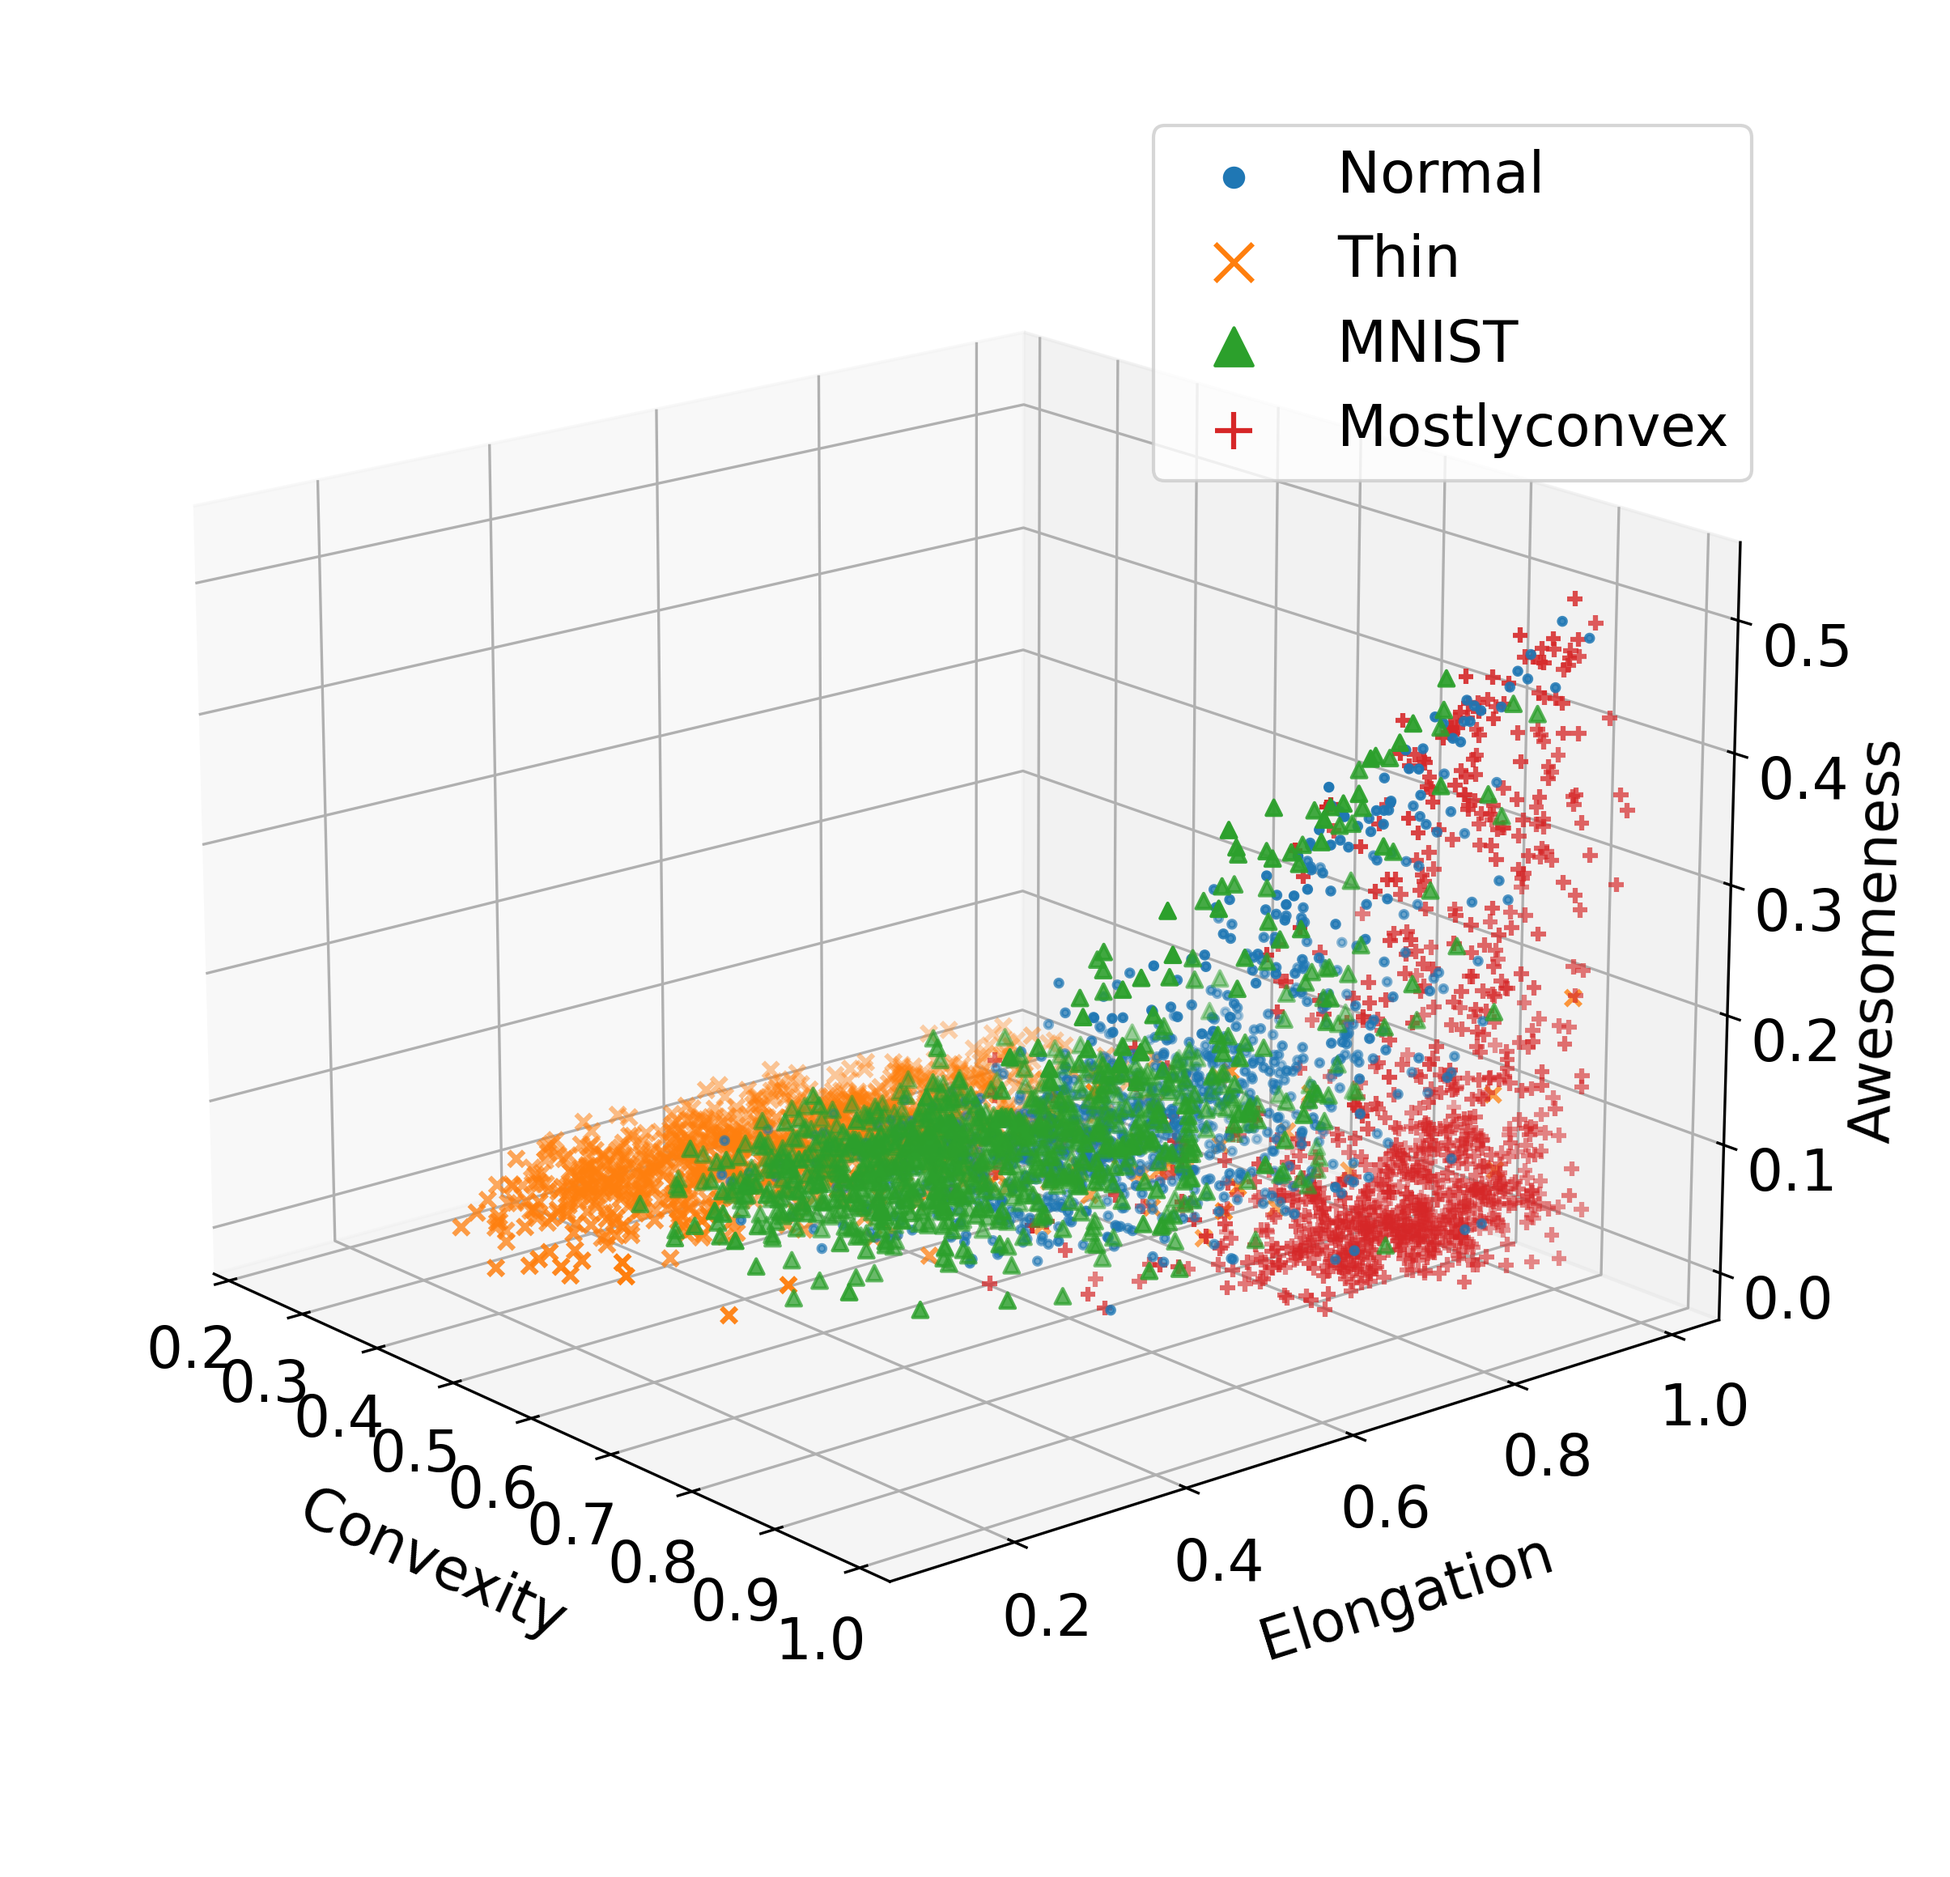
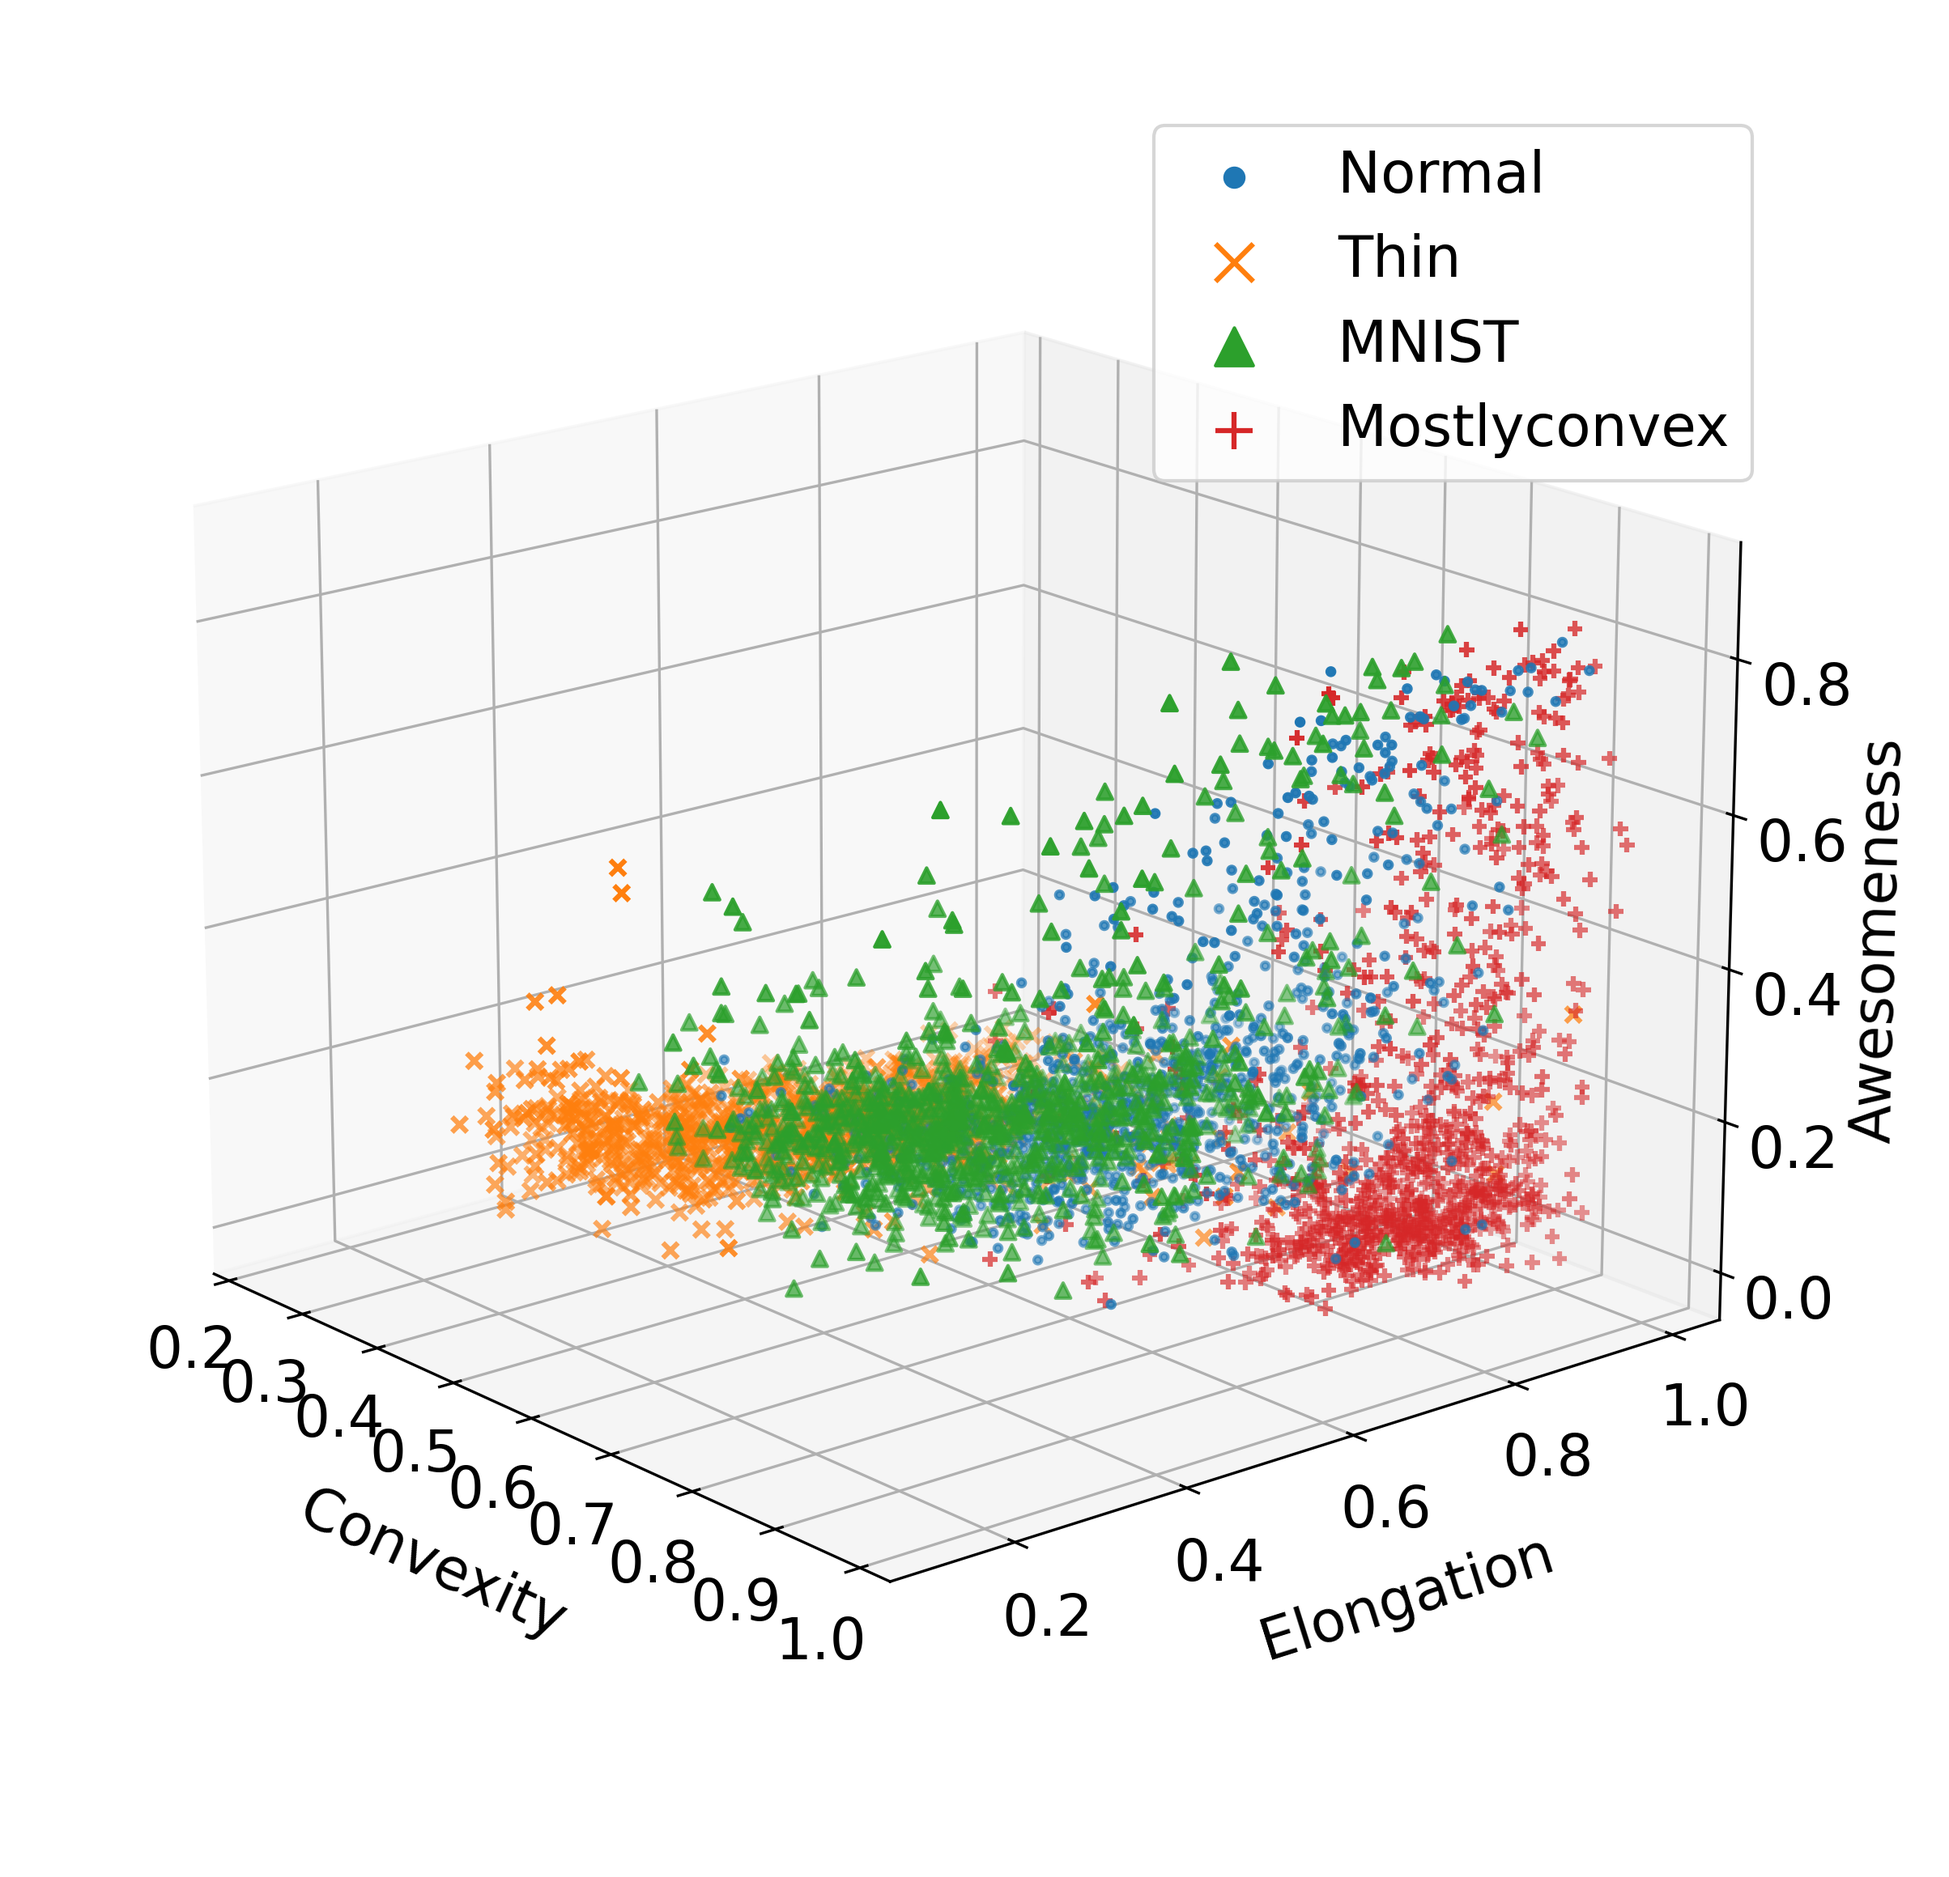
Rework definition of awesomeness (2/N)

diff --git a/paper.tex b/paper.tex
@@ -146,7 +146,9 @@ shape parameter we call ``\highlight{awesomeness}'':
   \end{aligned}
   \label{eq:awesomeness}
 \end{equation}
-where, again, $E$ is the elongation and $B$ is the boundary of the pore.
+where, again, $E$ and $B$ are the elongation the boundary of the pore,
+$\rho_{AB}$ is the Euclidean distance between points $A$ and $B$ and $L_{AB}$ is
+the length of a path (the shortest one) between $A$ and $B$ along the boundary.
 
 \section{Computational algorithm}
 \label{seq:alg}
@@ -163,8 +165,9 @@ consists of three parts and is shown in \cref{alg:main}.
     \Comment Construct a list of boundary points (\cref{alg:extraction}).
     \State \texttt{\%bs $\gets$ sort(bs)}
     \Comment Sort points as described in \cref{alg:sort}.
-    \State \textbf{return} \texttt{pmin(\%bs)}
-    \Comment The final step is in \cref{alg:pmin}.
+    \State \textbf{return} \texttt{c $\cdot$ pmin(\%bs)}
+    \Comment The final step is in \cref{alg:pmin}. \texttt{c} is the fraction in
+    \cref{eq:awesomeness}.
     \EndProcedure
   \end{algorithmic}
 \end{algorithm}
@@ -397,13 +400,9 @@ space.
     \includegraphics[width=0.4\linewidth]{images/cer.png}
     \label{fig:cer-space}}
   \vskip\baselineskip
-  \subfigure[Elongation-\highlight{Awesomeness} space]{
+  \subfigure[Elongation-\highlight{Correlated awesomeness} space]{
     \includegraphics[width=0.4\linewidth]{images/ae.png}
     \label{fig:ae-space}}
-  \hfill
-  \subfigure[Convexity-elongation-\highlight{improved awesomeness} space]{
-    \includegraphics[width=0.4\linewidth]{images/caei.png}
-    \label{fig:caei-space}}
   \caption[]{Synthetically generated pores shown as points in different
     parameter spaces.}
   \label{fig:parameter-spaces}
@@ -414,16 +413,17 @@ It can be seen that if a pore has low convexity ($< 0.6$)
 stays relatively low for all pores. When, however, the convexity is high it adds
 a new dimension to the parameter space.
 
-
-% CHECK THIS:
-Indeed, on \cref{fig:caei-space} we see that improved awesomeness is less
-correlated with elongation.
-
 Another common parameter for describing pore shapes is roundness. Figure
 \ref{fig:cer-space} features convexity-elongation-roundness (CER) space.
 It can be seen that roundness-convexity correlation is bigger than
 awesomeness-convexity correlation. All correlation values are in
 \cref{tab:correlations}.
+
+On \cref{fig:ae-space} pores are shown in $p-E$ space where $p$ is a
+``correlated'' \highlight{awesomeness} parameter \cref{eq:pre-awesomeness}. It
+shows that our assumption on the maximal value of \highlight{awesomeness} is
+correct indeed.
+
 \begin{table*}[!htp]
   \centering
   \begin{tabular}{|c|c|c|c|c|}
